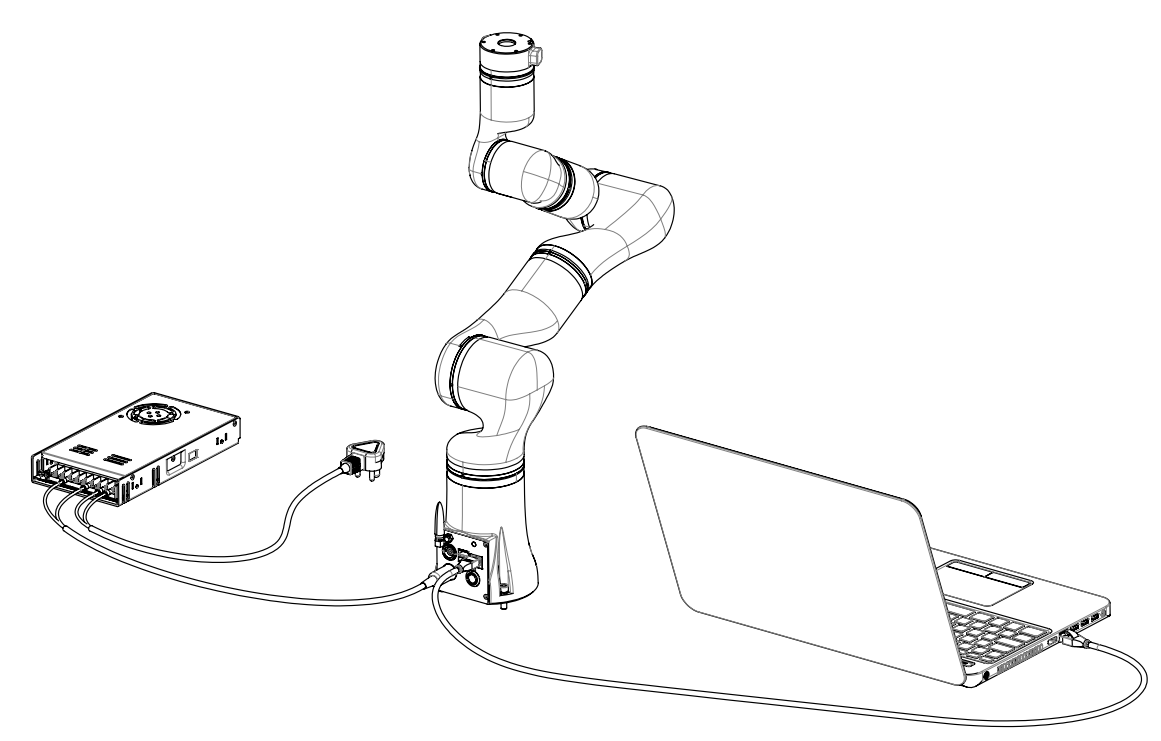
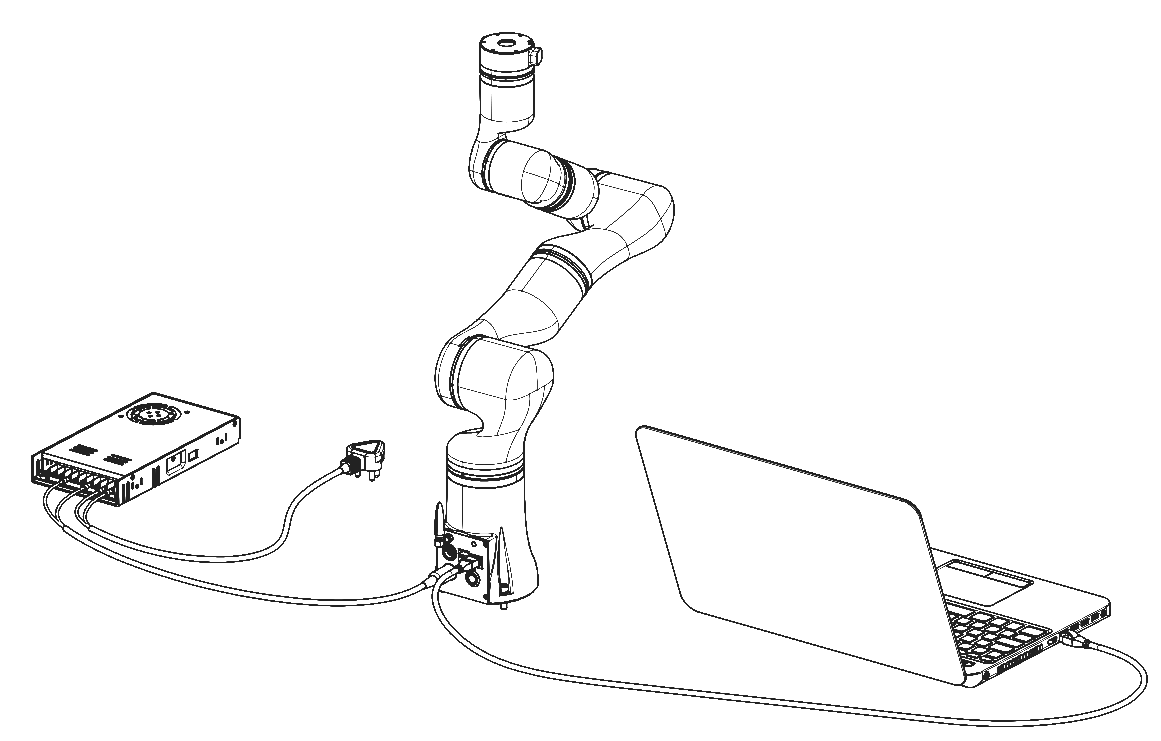
修订硬件准备

diff --git a/docs/robot/quickUseManual/index.md b/docs/robot/quickUseManual/index.md
@@ -8,11 +8,11 @@
 
 一套完整的睿尔曼协作机器人产品组成如下所示：
 
-![alt text](image-25.png)
+![产品组成](./透明产品组成2.png)
 
 **机器人电气接口功能说明**
-![alt text](image.png)
-上图为第三代控制器，相比第二代控制器增加了状态指示灯，去掉了一个不常用的网口。
+![二代和三代对比](./二代和三代对比.png)
+上图左侧为第三代控制器，相比右侧图片第二代控制器增加了状态指示灯，去掉了一个不常用的网口。
 
 | 序号 | 接口            | 功能                                                                                                                                                                                                                                           |
 | :--- | :-------------- | :--------------------------------------------------------------------------------------------------------------------------------------------------------------------------------------------------------------------------------------------- |
@@ -85,23 +85,22 @@ Windows 系统通过网口与机械臂建立有线连接。
   （1）右击电脑右下方 WiFi 按钮打开“网络和 Internet 设置”： 
   >注：win11 点击后须先点击<高级网络设置，再点击更多网络适配器选项后进入以太网选项。
 
-    ![alt text](image-4.png)
-    （2）单击“以太网-->更改适配器选项”
-    ![alt text](image-6.png)
-    （3）双击“以太网”并打开，并且在弹出的窗口中单击“属性”按钮。
-    ![alt text](image-7.png)
-    (4)在弹出的对话框中，第一步选中“Internet协议版本4”，第二步单击“属性”按钮。
-    ![alt text](image-9.png)
-    （5）按下图配置网络IP地址，配置完成后点击“确定”按钮，即可完成本地网络设置。
-    ![alt text](image-10.png)
+    ![alt text](./操作截图/111.png)
+    （2）单击“以太网-->更改适配器选项”。点击“以太网”下拉页面，在下拉页面中选择更多适配器选项。
+    ![alt text](./操作截图/222.png)
+    ![alt text](./操作截图/333.png)
+    （3）在弹出的对话框中，第一步选中“Internet协议版本4”，第二步单击“属性”按钮。
+    ![alt text](./操作截图/444.png)
+    （4）按下图配置网络IP地址，配置完成后点击“确定”按钮，即可完成本地网络设置。
+    ![alt text](./操作截图/555.png)
 
 - 打开示教器
   （1）打开浏览器，输入网址`192.168.1.18`。
   ![alt text](image-3.png)
   （2）输入账号：`user`，密码：`123`，点击登录。
-  ![alt text](049f1871-eda1-4e1b-9f87-20101c162592.png)
+  ![alt text](./操作截图/666.png)
   （3）打开机械臂示教界面。
-  ![alt text](image-11.png)
+  ![alt text](./操作截图/777.png)
 
 **无线连接：**
 
